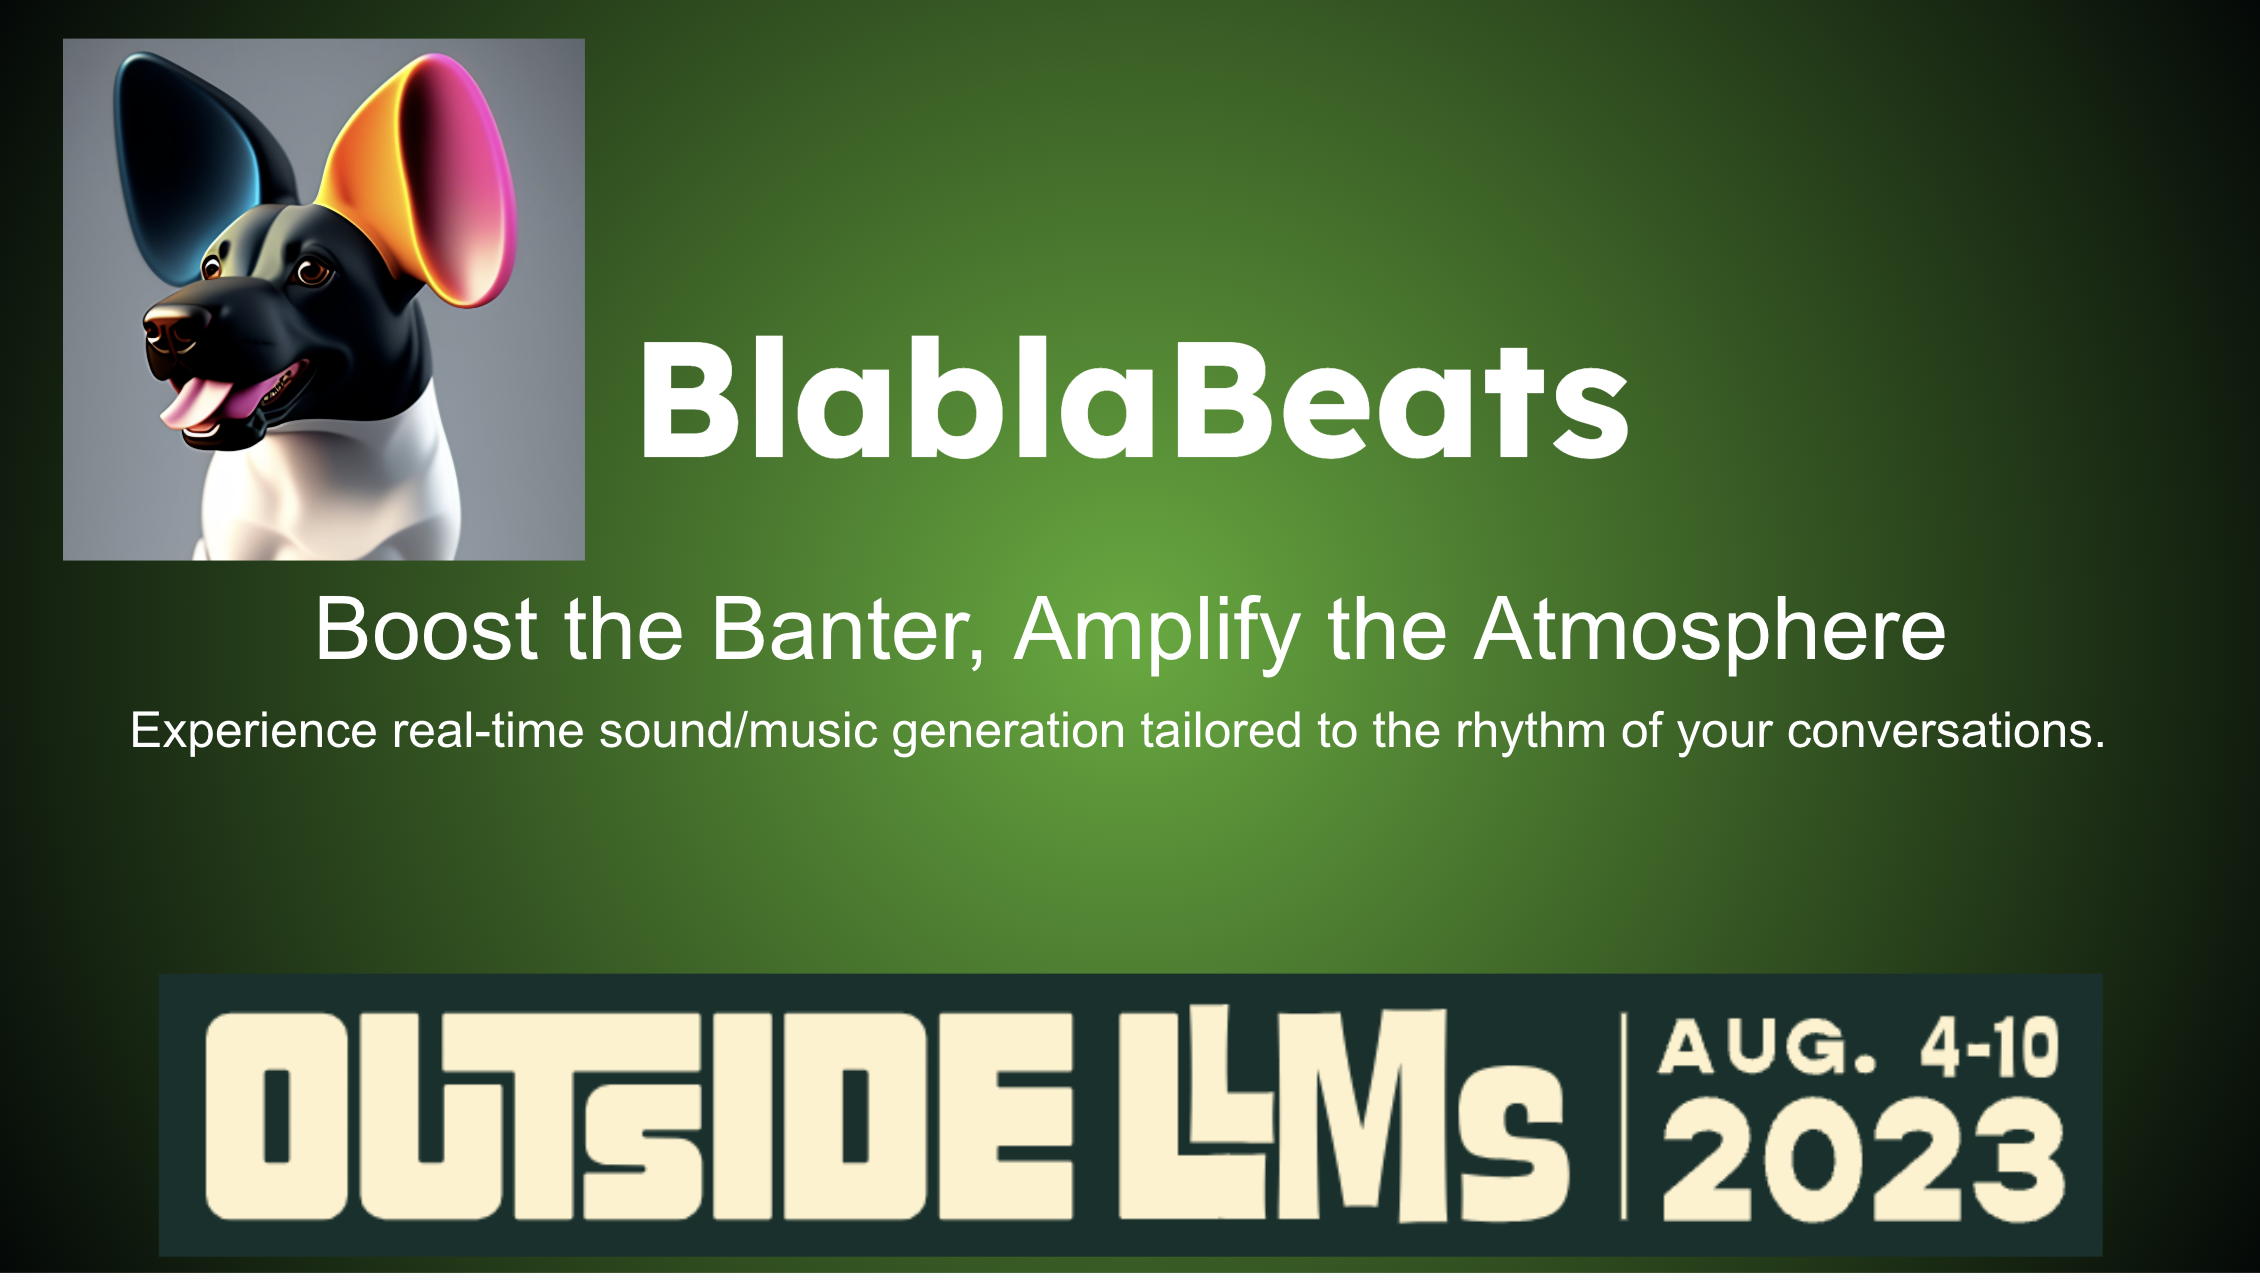
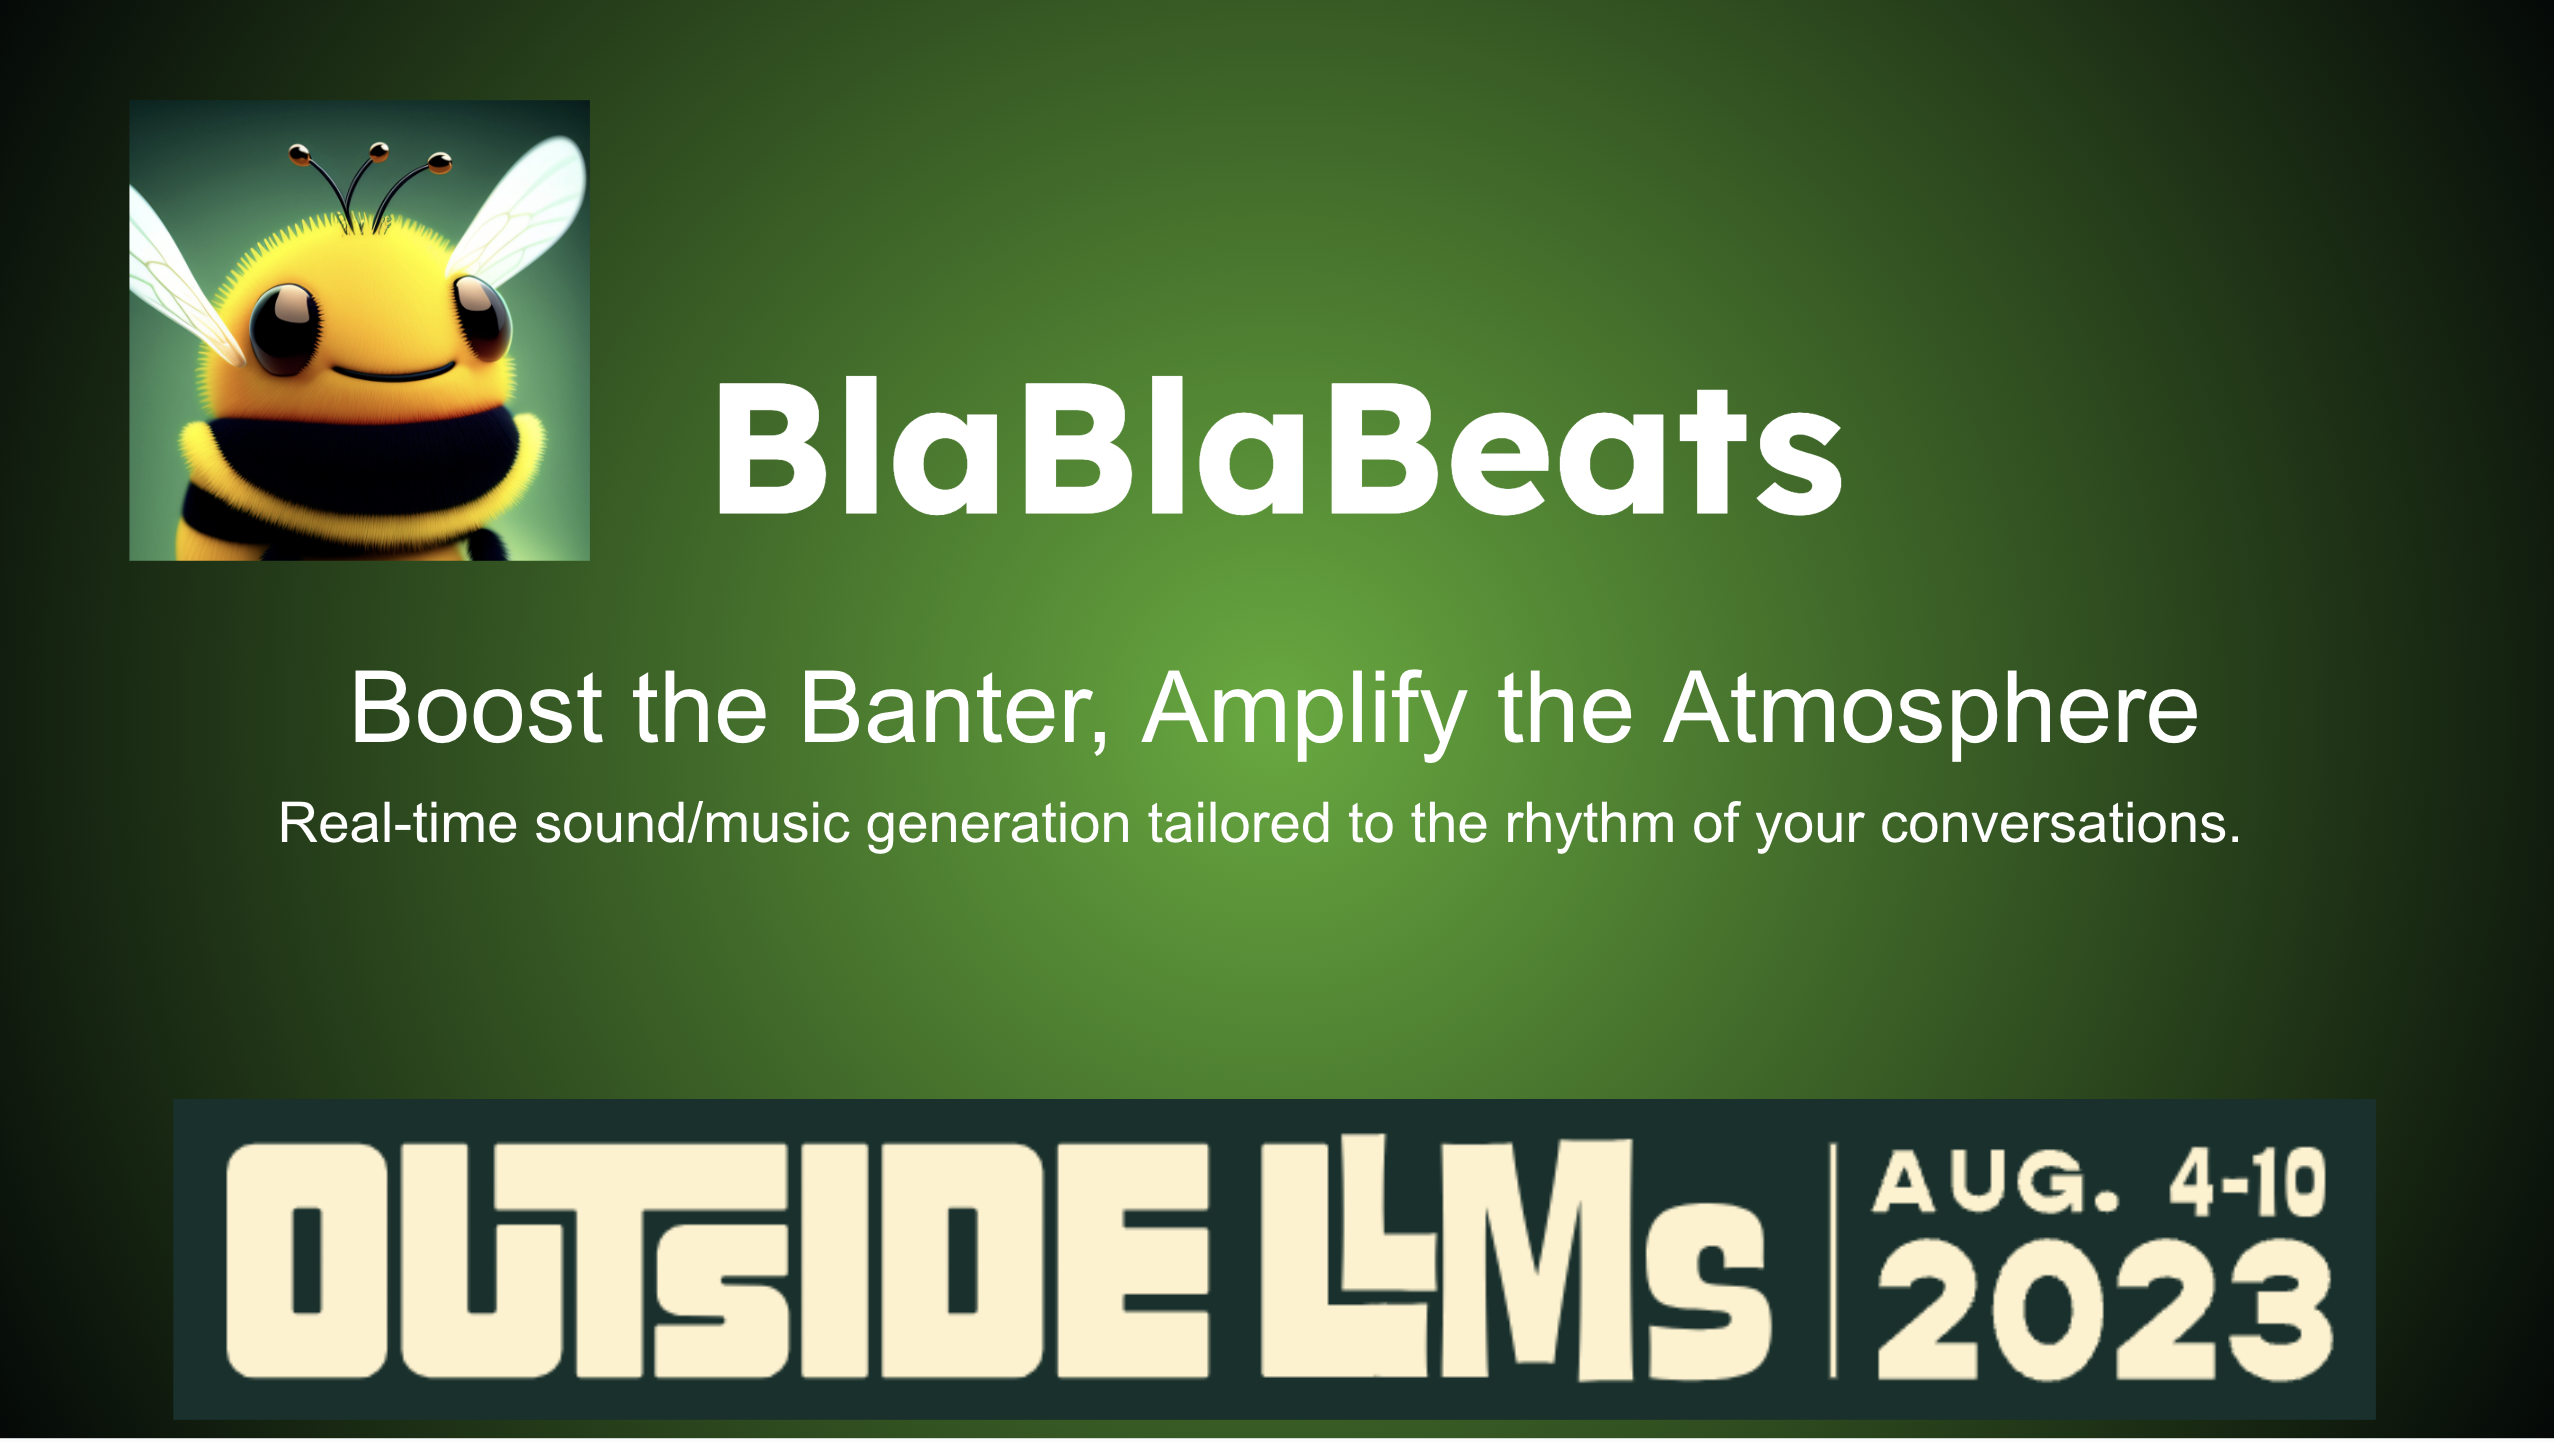
fix

diff --git a/README.md b/README.md
@@ -1,6 +1,6 @@
 <p align="center">
-  <a href="https://pickle-pod.vercel.app">
-    <img alt="Real-time sound/music generation tailored to the rhythm of your conversations." src="/public/social.jpg">
+  <a href="https://blablabeats.vercel.app">
+    <img alt="Real-time sound/music generation tailored to the rhythm of your conversations." src="/social.png">
   </a>
 </p>
 
